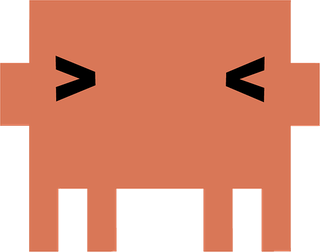
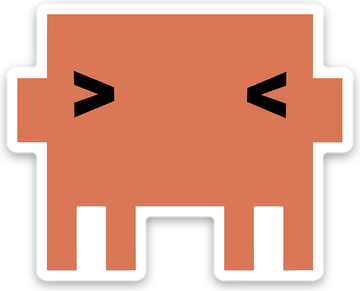
O adesivo fica adesivo
Eu tinha recortado o contorno branco achando que era resíduo de recorte. É
o contrário: o contorno é o que faz a figura parecer colada na tela, e sem
ele o mascote vira só um desenho solto sobre o painel.

Restaurada a arte inteira, com contorno e sombra. Ganhou a inclinação de
sete graus e uma sombra projetada, que é o resto do vocabulário de adesivo —
sem isso ele fica reto e chapado, colado sem convicção.

Opacidade não entra: adesivo meio transparente vira decalque.

Changed region(s): [[0.0, 0.0, 1.0, 1.0], [0.1562, 0.2778, 0.3438, 0.4167]]

diff --git a/site/src/App.tsx b/site/src/App.tsx
@@ -304,12 +304,10 @@ export default function App() {
         </div>
 
         <div className="painel claude">
-          {/* A arte veio como adesivo, com contorno branco e sombra. A máscara
-              foi refeita a partir do que É desenho (o laranja do corpo e o
-              preto dos olhos) em vez de tentar apagar o branco — assim some
-              também o antialiasing da borda, que sobrevive a qualquer limiar
-              de cor. Decorativa: quem usa leitor de tela já recebeu a marca no
-              texto da pílula e no título. */}
+          {/* Adesivo, com o contorno branco e a sombra que vieram na arte: é
+              a estética do mascote, e recortar o contorno tira justamente o
+              que faz ele parecer colado na tela. Decorativa — quem usa leitor
+              de tela já recebeu a marca no texto da pílula e no título. */}
           <img
             className="claude__mascote"
             src="claude-code.png"

diff --git a/site/src/componentes.css b/site/src/componentes.css
@@ -582,8 +582,11 @@
 .claude { position: relative; }
 .claude__mascote {
   position: absolute; right: var(--s6); bottom: var(--s6);
-  width: 118px; height: auto;
-  opacity: 0.9;
+  width: 122px; height: auto;
+  /* Inclinação de adesivo colado à mão, e sombra projetada para ele descolar
+     do painel. Opacidade não entra: adesivo meio transparente vira decalque. */
+  transform: rotate(-7deg);
+  filter: drop-shadow(0 8px 20px oklch(0 0 0 / 0.45));
   pointer-events: none;
 }
 @media (max-width: 900px) { .claude__mascote { display: none; } }
